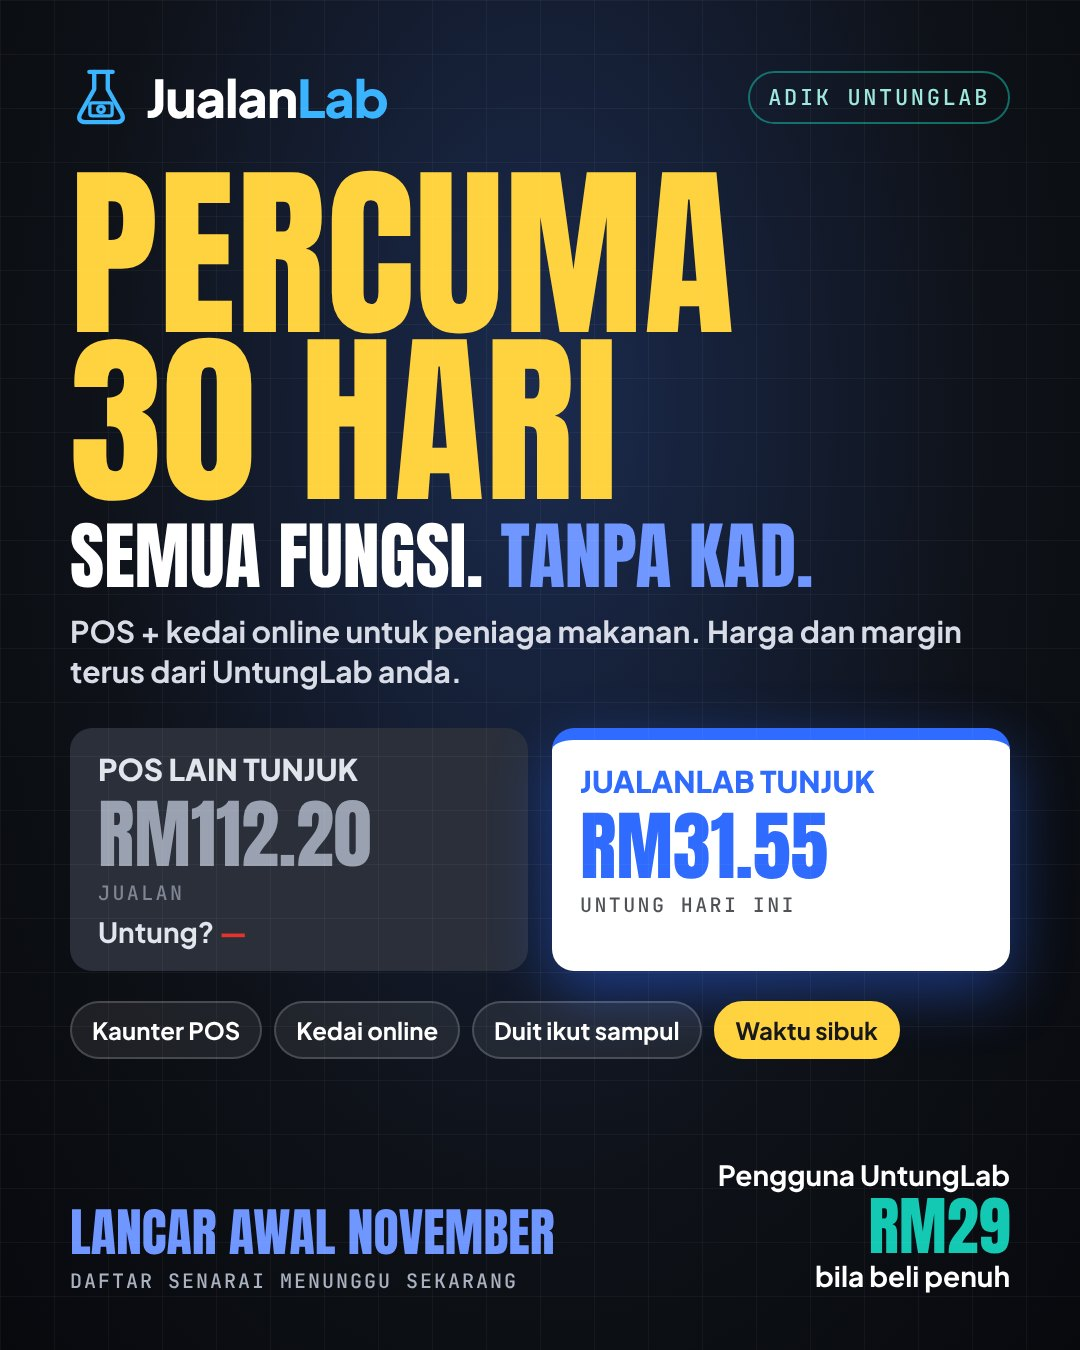
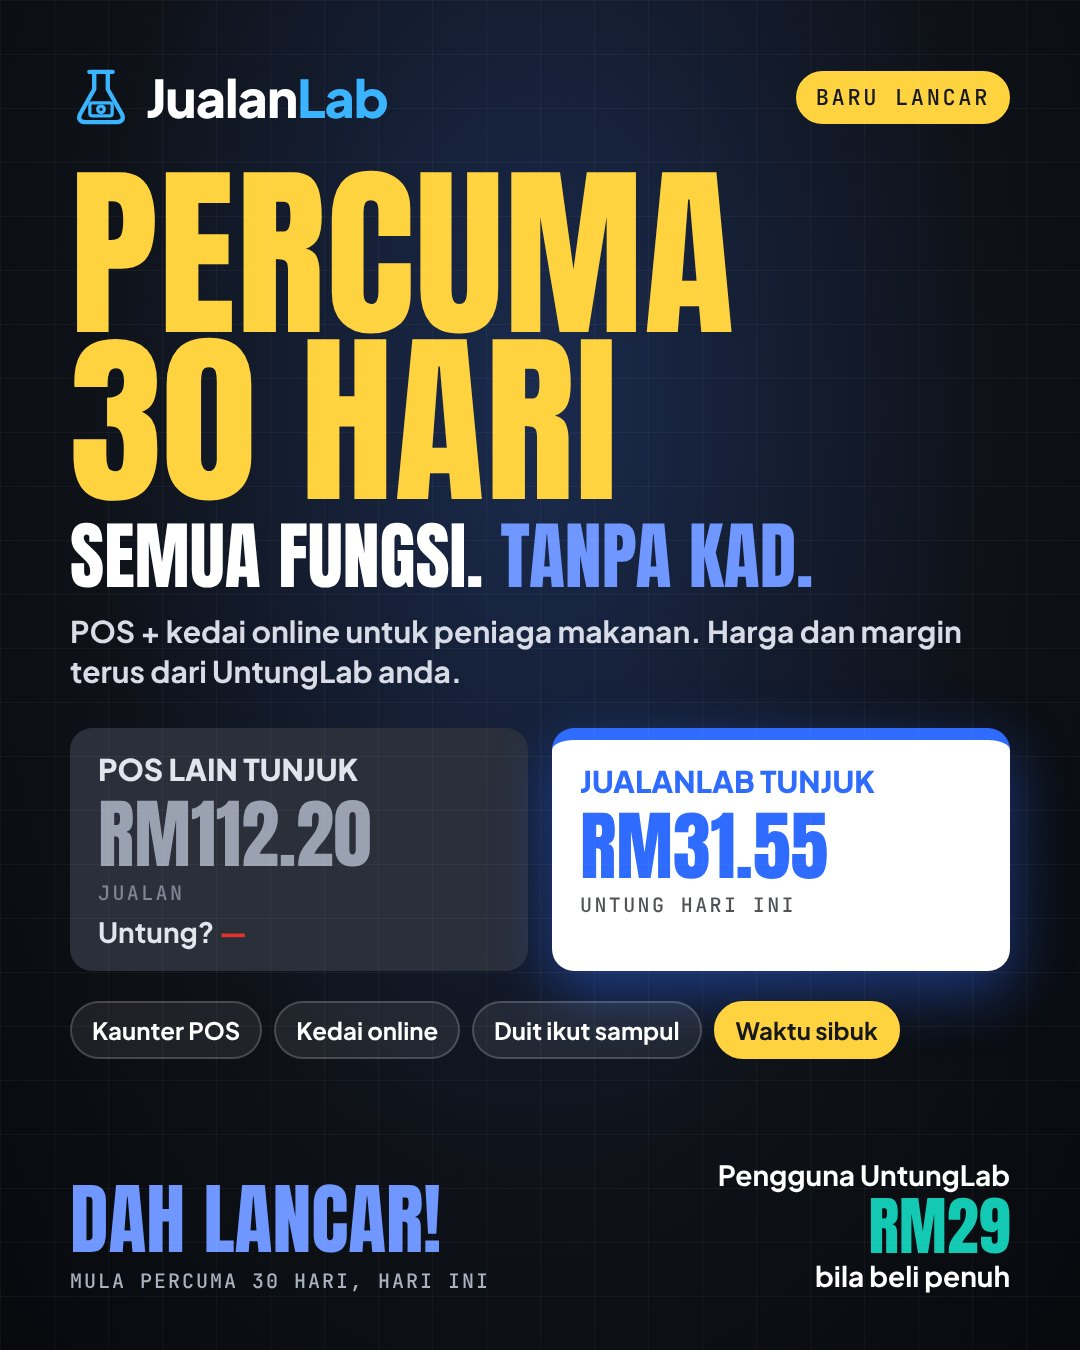
Promo pop-up: launch wording (JualanLab is out)
Picture now says "Dah lancar! Mula percuma 30 hari, hari ini" with a "Baru lancar" tag;
the button reads "Mula percuma 30 hari". New PROMO_ID (jualanlab-launch-1).

Claude-Session: https://claude.ai/code/session_013anwrpz9aZ3KnzvxMR62U1

Changed region(s): [[0.0611, 0.8711, 0.5194, 0.9644], [0.7028, 0.0311, 0.9472, 0.0933]]

diff --git a/src/i18n/en.ts b/src/i18n/en.ts
@@ -753,8 +753,8 @@ export const en: Widen<typeof ms> = {
   },
   promo: {
     label: 'JualanLab promotion',
-    alt: 'JualanLab, UntungLab\'s sister app: free for 30 days, every feature, no card. Other POS apps show sales of RM112.20; JualanLab shows today\'s profit of RM31.55. Counter POS, online store, money envelopes, busy hours. Launching early November. UntungLab users pay RM29 for the full version.',
-    daftar: 'Sign up now',
+    alt: 'JualanLab, UntungLab\'s sister app: free for 30 days, every feature, no card. Other POS apps show sales of RM112.20; JualanLab shows today\'s profit of RM31.55. Counter POS, online store, money envelopes, busy hours. Out now: start free for 30 days today. UntungLab users pay RM29 for the full version.',
+    daftar: 'Start free for 30 days',
     nanti: 'Later',
     tutup: 'Close',
   },

diff --git a/src/i18n/ms.ts b/src/i18n/ms.ts
@@ -753,8 +753,8 @@ export const ms = {
   },
   promo: {
     label: 'Promosi JualanLab',
-    alt: 'JualanLab, adik UntungLab: percuma 30 hari, semua fungsi, tanpa kad. POS lain tunjuk jualan RM112.20; JualanLab tunjuk untung hari ini RM31.55. Kaunter POS, kedai online, duit ikut sampul, waktu sibuk. Lancar awal November. Pengguna UntungLab RM29 bila beli penuh.',
-    daftar: 'Daftar sekarang',
+    alt: 'JualanLab, adik UntungLab: percuma 30 hari, semua fungsi, tanpa kad. POS lain tunjuk jualan RM112.20; JualanLab tunjuk untung hari ini RM31.55. Kaunter POS, kedai online, duit ikut sampul, waktu sibuk. Dah lancar: mula percuma 30 hari, hari ini. Pengguna UntungLab RM29 bila beli penuh.',
+    daftar: 'Mula percuma 30 hari',
     nanti: 'Nanti',
     tutup: 'Tutup',
   },

diff --git a/src/app/promo.ts b/src/app/promo.ts
@@ -4,9 +4,9 @@
  */
 
 /** Bump the id (and the picture) for the next promotion; each id is shown once. */
-export const PROMO_ID = 'jualanlab-trial-1';
+export const PROMO_ID = 'jualanlab-launch-1';
 export const PROMO_IMAGE = './promo/jualanlab-promo.jpg';
-/** smeLab shows the waiting list before launch and "start free" after it; the tag is counted there (D-102). */
+/** smeLab's sales page opens on "start free for 30 days"; the tag is counted there (D-102). */
 export const PROMO_URL = 'https://smelab.untunglab.space/?src=ulpopup';
 const KEY = 'untunglab.promoSeen';
 

diff --git a/DECISIONS.md b/DECISIONS.md
@@ -129,5 +129,5 @@ Authority order when documents conflict: 03, 02, 04, 05, 06, 01, 07 (Doc 00 §2)
 | D-100 | **One admin page, a tab per product (UL, smeLab, JL, KL, PL).** Each product keeps its own data and its own admin token; this page is only the window. The tabs for smeLab and JualanLab call those Workers' own `/api/admin/*` (`https://smelab.untunglab.space`, `https://jualan.untunglab.space`) straight from the browser. They allow only this page's address (CORS `ADMIN_ORIGINS`), and `/admin`'s CSP lists exactly those two addresses in `connect-src`. UntungLab's Worker never holds another product's secret. Each tab asks for its product's token (kept in the page only, like UL's); the tokens are separate and each is sent only to its own product (browser-checked). **smeLab tab:** accounts, orders (paid, pending), revenue, what was bought (UL, JL, combo), live and revoked access, early-bird places left, newest orders, lookup by email or order id, **revoke or restore one app's access**, resend a receipt. Refunds stay manual (bank or DuitNow), then revoke. Revoking smeLab access does not cancel an UntungLab licence code (use the UL tab). **JL tab:** users, shops, bought the full POS, free month running, ending within 7 days, ended, finished sales in 7 and 30 days, shops selling in the last 7 days, waiting list, newest shops; lookup by email; **extend the free month by 7, 14 or 30 days** (counted from today, or from its end if still running; refused for a shop that already bought). Counts only: a seller's takings and customers are never sent to this page. JL's plan follows smeLab's entitlements at every sign-in, so giving or removing the full POS is done on the smeLab tab, not by editing JL. **KL and PL:** not launched; they show smeLab's waiting list (`promolab`, `kiralab`) once the smeLab tab is connected. Both new APIs are POST-only, Bearer token, 20 wrong tokens an hour per address, and are off until the secret `ADMIN_TOKEN` is set on that Worker. | Mamu: separate the smeLab codes so they are not confused; one admin for UL, JL and smeLab, later KL and PL; each with its own data connection; view and actions. | Needs a secret on each of the two other Workers (GitHub secrets `SMELAB_ADMIN_TOKEN` and `JUALANLAB_ADMIN_TOKEN` in the jualanlab repo, pushed by its deploy). Until set, those tabs say the admin API is not switched on. "Extend the free month" and "revoke access" are my choice of first actions; a refund, a price change or granting a paid plan are not built. |
 | D-101 | **smeLab-issued codes are shown apart from test codes.** A free (RM0) code whose order note starts with "smeLab" (smeLab writes `smeLab <order id> RM<amount>` when it issues a code for a purchase) is counted as "Kod dari smeLab"; every other free code stays "Kod percuma (ujian)". Neither counts as a paid buyer or revenue here, because the money was paid at smeLab (use the smeLab tab for those numbers). The first real one: a RM75 combo bought on 23 Oct (14:51 MYT). | Mamu: "Mamu x pernah generate selain untuk Mamu", then "kena asingkan supaya x keliru". | Based on the note prefix: if smeLab ever changes that text, those codes fall back to "Kod percuma (ujian)". |
 | D-102 | **Source tags (`?src=`) follow the visitor to smeLab and are saved on the order there.** `beli.untunglab.space/` and `/beli` still redirect to smeLab (D-99); now a plain tag (a-z, 0-9, `_`, `-`, up to 20, lower-cased) is carried: `/beli?src=fb` goes to `https://smelab.untunglab.space/?src=fb#harga`. Anything else is dropped. smeLab keeps the tag in a small cookie for 30 days (so it survives signing in) and writes it on the order when the buyer checks out; the smeLab tab of /admin shows orders and paid orders per tag and the tag on each order. The tags Mamu uses: fb, tr, trbio, wa. The UL "Dari mana pembeli datang" table now covers only orders made on this server (older ones). | Mamu: yes, save the order there. | smeLab's privacy text now mentions the one small cookie (it holds only the tag, nothing that identifies a person). A buyer who follows two tagged links within 30 days is credited to the last one. |
-| D-103 | **JualanLab promotion picture, once per device.** When UntungLab opens, a pop-up shows one picture (`public/promo/jualanlab-promo.jpg`, 1080×1350): "Percuma 30 hari, semua fungsi, tanpa kad", POS lain tunjuk jualan vs JualanLab tunjuk untung, the four headline features, launch early November, RM29 for UntungLab users. Buttons: "Daftar sekarang" opens `https://smelab.untunglab.space/?src=ulpopup` (counted per D-102) and "Nanti"; the × or a tap outside also closes it. Shown once per device per `PROMO_ID` (`untunglab.promoSeen`), after the language prompt, never together with "What's new", not on Hantar ke JualanLab or Rancang Batch, and only once the picture has loaded (offline it waits for a later visit; the picture is not precached). The picture is in BM for everyone; English users get an English description as its alt text. | Mamu (24 Oct): a pop-up for UntungLab users promoting JualanLab; the free 30 days with every feature matters most. | After launch the picture still says "Lancar awal November": swap the picture and bump `PROMO_ID` then, so everyone sees the new one once. |
+| D-103 | **JualanLab promotion picture, once per device.** When UntungLab opens, a pop-up shows one picture (`public/promo/jualanlab-promo.jpg`, 1080×1350): "Percuma 30 hari, semua fungsi, tanpa kad", POS lain tunjuk jualan vs JualanLab tunjuk untung, the four headline features, "Dah lancar!", RM29 for UntungLab users. Buttons: "Mula percuma 30 hari" opens `https://smelab.untunglab.space/?src=ulpopup` (counted per D-102) and "Nanti"; the × or a tap outside also closes it. Shown once per device per `PROMO_ID` (`untunglab.promoSeen`), after the language prompt, never together with "What's new", not on Hantar ke JualanLab or Rancang Batch, and only once the picture has loaded (offline it waits for a later visit; the picture is not precached). The picture is in BM for everyone; English users get an English description as its alt text. | Mamu (24 Oct): a pop-up for UntungLab users promoting JualanLab; the free 30 days with every feature matters most. Mamu (28 Oct): JualanLab is launched, change the wording. | JualanLab launched before this went live, so the first version (waiting list wording) was never shipped. For the next promotion, swap the picture and bump `PROMO_ID` so everyone sees it once. |
 
